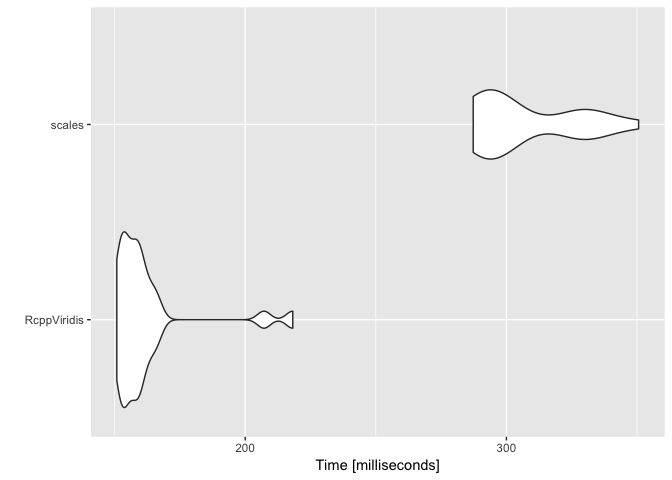
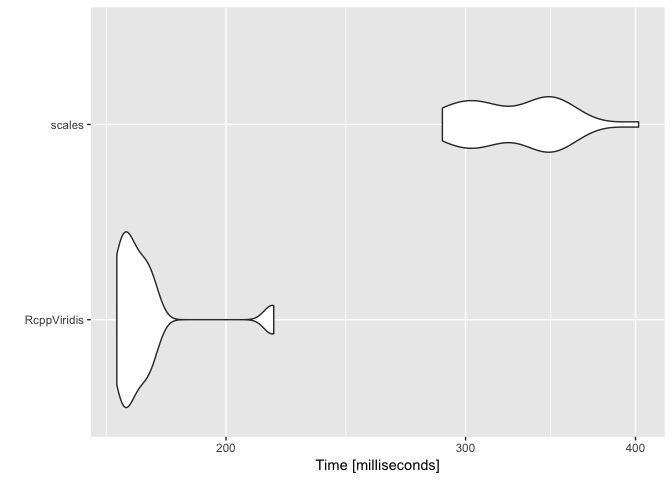
splining is still slightly out

diff --git a/inst/include/RcppViridis/colours/colours_hex.hpp b/inst/include/RcppViridis/colours/colours_hex.hpp
@@ -60,6 +60,10 @@ namespace colours_hex {
         g = round( spline_green( this_x ) * 255 );
         b = round( spline_blue( this_x ) * 255 );
 
+        Rcpp::Rcout << "splined r : " << r << std::endl;
+        Rcpp::Rcout << "splined g : " << g << std::endl;
+        Rcpp::Rcout << "splined b : " << b << std::endl;
+
         if ( alpha_type == ALPHA_PALETTE ) {
           a = round( spline_alpha( this_x ) * 255 );
         } else if (alpha_type == ALPHA_VECTOR ){

diff --git a/README.md b/README.md
@@ -27,8 +27,10 @@ I wanted **one** function which will work on **one** argument.
 
 ``` r
 colour_values(1:5)
+# alpha CONSTANT
 # [1] "#440154FF" "#3B528BFF" "#21908CFF" "#5DC963FF" "#FDE725FF"
 colour_values(letters[1:5])
+# alpha CONSTANT
 # [1] "#440154FF" "#3B528BFF" "#21908CFF" "#5DC963FF" "#FDE725FF"
 ```
 
@@ -98,6 +100,7 @@ Of course\!
 ``` r
 df <- data.frame(a = 10, x = 1:256)
 df$col <- colour_values(df$x, palette = "viridis")
+# alpha CONSTANT
 barplot(height = df$a, col = df$col, border = NA, space = 0)
 ```
 
@@ -108,6 +111,7 @@ barplot(height = df$a, col = df$col, border = NA, space = 0)
 ``` r
 df <- data.frame(a = 10, x = c((1:5000)**3))
 df$col <- colour_values(df$x, palette = "viridis")
+# alpha CONSTANT
 barplot(height = df$a, col = df$col, border = NA, space = 0)
 ```
 
@@ -118,6 +122,7 @@ barplot(height = df$a, col = df$col, border = NA, space = 0)
 ``` r
 df <- data.frame(a = 10, x = rnorm(n = 1000))
 df$col <- colour_values(df$x, palette = "inferno")
+# alpha CONSTANT
 barplot(height = df$a, col = df$col, border = NA, space = 0)
 ```
 
@@ -146,6 +151,7 @@ n <- 100
 m <- grDevices::colorRamp(c("red", "green"))( (1:n)/n )
 df <- data.frame(a = 10, x = 1:n)
 df$col <- colour_values(df$x, palette = m)
+# alpha CONSTANT
 barplot(height = df$a, col = df$col, border = NA, space = 0)
 ```
 
@@ -159,16 +165,18 @@ Yep. Either supply a single alpha value for all the colours
 ## single alpha value for all colours
 df <- data.frame(a = 10, x = 1:255)
 df$col <- colour_values(df$x, alpha = 50)
+# alpha CONSTANT
 barplot(height = df$a, col = df$col, border = NA, space = 0)
 ```
 
 <img src="man/figures/README-unnamed-chunk-7-1.png" width="100%" height="200" />
 
-Or use a vector of values the same lenght as `x`
+Or use a vector of values the same length as `x`
 
 ``` r
 df <- data.frame(a = 10, x = 1:300, y = rep(c(1:50, 50:1), 3) )
 df$col <- colour_values(df$x, alpha = df$y)
+# alpha VECTOR
 barplot(height = df$a, col = df$col, border = NA, space = 0)
 ```
 
@@ -183,6 +191,7 @@ m <- grDevices::colorRamp(c("red", "green"))( (1:n)/n )
 m <- cbind(m, seq(0, 255, length.out = 100))
 df <- data.frame(a = 10, x = 1:n)
 df$col <- colour_values(df$x, palette = m)
+# alpha PALETTE
 barplot(height = df$a, col = df$col, border = NA, space = 0)
 ```
 
@@ -213,11 +222,36 @@ m <- microbenchmark(
   scales = { col_numeric(palette = rgb(subset(viridis.map, opt=="D")[, 1:3]), domain = range(df$x))(df$x) },
   times = 25
 )
+# alpha CONSTANT
+# alpha CONSTANT
+# alpha CONSTANT
+# alpha CONSTANT
+# alpha CONSTANT
+# alpha CONSTANT
+# alpha CONSTANT
+# alpha CONSTANT
+# alpha CONSTANT
+# alpha CONSTANT
+# alpha CONSTANT
+# alpha CONSTANT
+# alpha CONSTANT
+# alpha CONSTANT
+# alpha CONSTANT
+# alpha CONSTANT
+# alpha CONSTANT
+# alpha CONSTANT
+# alpha CONSTANT
+# alpha CONSTANT
+# alpha CONSTANT
+# alpha CONSTANT
+# alpha CONSTANT
+# alpha CONSTANT
+# alpha CONSTANT
 m
 # Unit: milliseconds
 #         expr      min       lq     mean   median       uq      max neval
-#  RcppViridis 163.8603 165.5927 171.5584 168.9119 170.3885 215.3305    25
-#       scales 284.9327 291.6565 309.4799 295.6014 335.3427 368.3365    25
+#  RcppViridis 166.2459 168.1874 174.5268 171.0325 175.0243 216.8199    25
+#       scales 288.4560 302.2601 327.0526 336.3259 347.8201 402.0880    25
 
 autoplot(m)
 # Coordinate system already present. Adding new coordinate system, which will replace the existing one.
@@ -242,11 +276,36 @@ m <- microbenchmark(
   scales = { y <- col_factor(palette = rgb(subset(viridis.map, opt=="D")[, 1:3]), domain = unique(df$x))(df$x) },
   times = 25
 )
+# alpha CONSTANT
+# alpha CONSTANT
+# alpha CONSTANT
+# alpha CONSTANT
+# alpha CONSTANT
+# alpha CONSTANT
+# alpha CONSTANT
+# alpha CONSTANT
+# alpha CONSTANT
+# alpha CONSTANT
+# alpha CONSTANT
+# alpha CONSTANT
+# alpha CONSTANT
+# alpha CONSTANT
+# alpha CONSTANT
+# alpha CONSTANT
+# alpha CONSTANT
+# alpha CONSTANT
+# alpha CONSTANT
+# alpha CONSTANT
+# alpha CONSTANT
+# alpha CONSTANT
+# alpha CONSTANT
+# alpha CONSTANT
+# alpha CONSTANT
 m
 # Unit: milliseconds
 #         expr      min       lq     mean   median       uq      max neval
-#  RcppViridis 168.3095 171.1390 178.8755 175.0209 176.7191 236.5239    25
-#       scales 293.3825 300.1235 314.2118 305.3097 307.3727 365.4191    25
+#  RcppViridis 169.0968 171.2538 175.0727 174.5023 178.7038 182.8813    25
+#       scales 299.4667 308.3081 326.1830 313.1078 356.6525 376.2990    25
 
 autoplot(m)
 # Coordinate system already present. Adding new coordinate system, which will replace the existing one.
